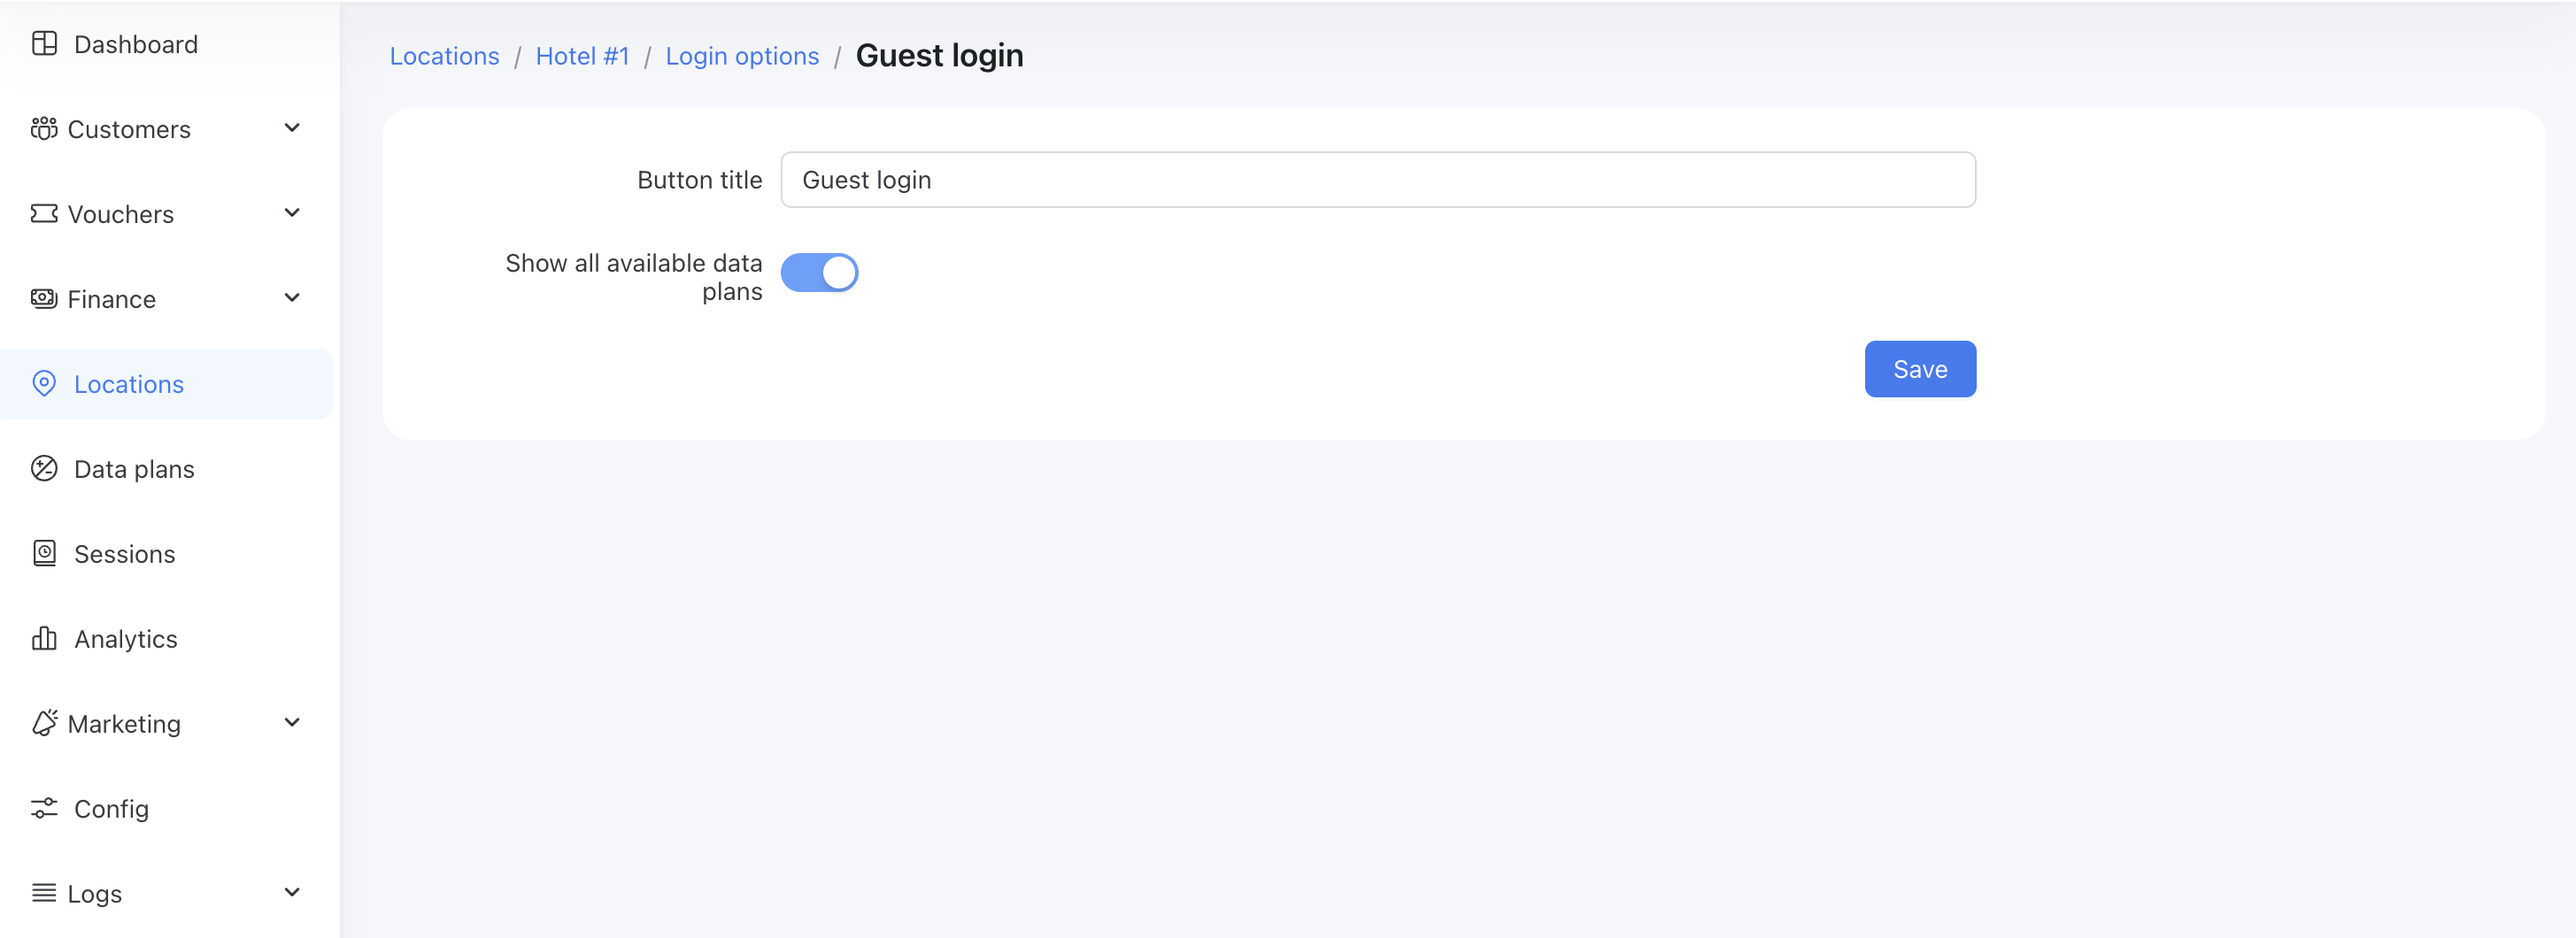
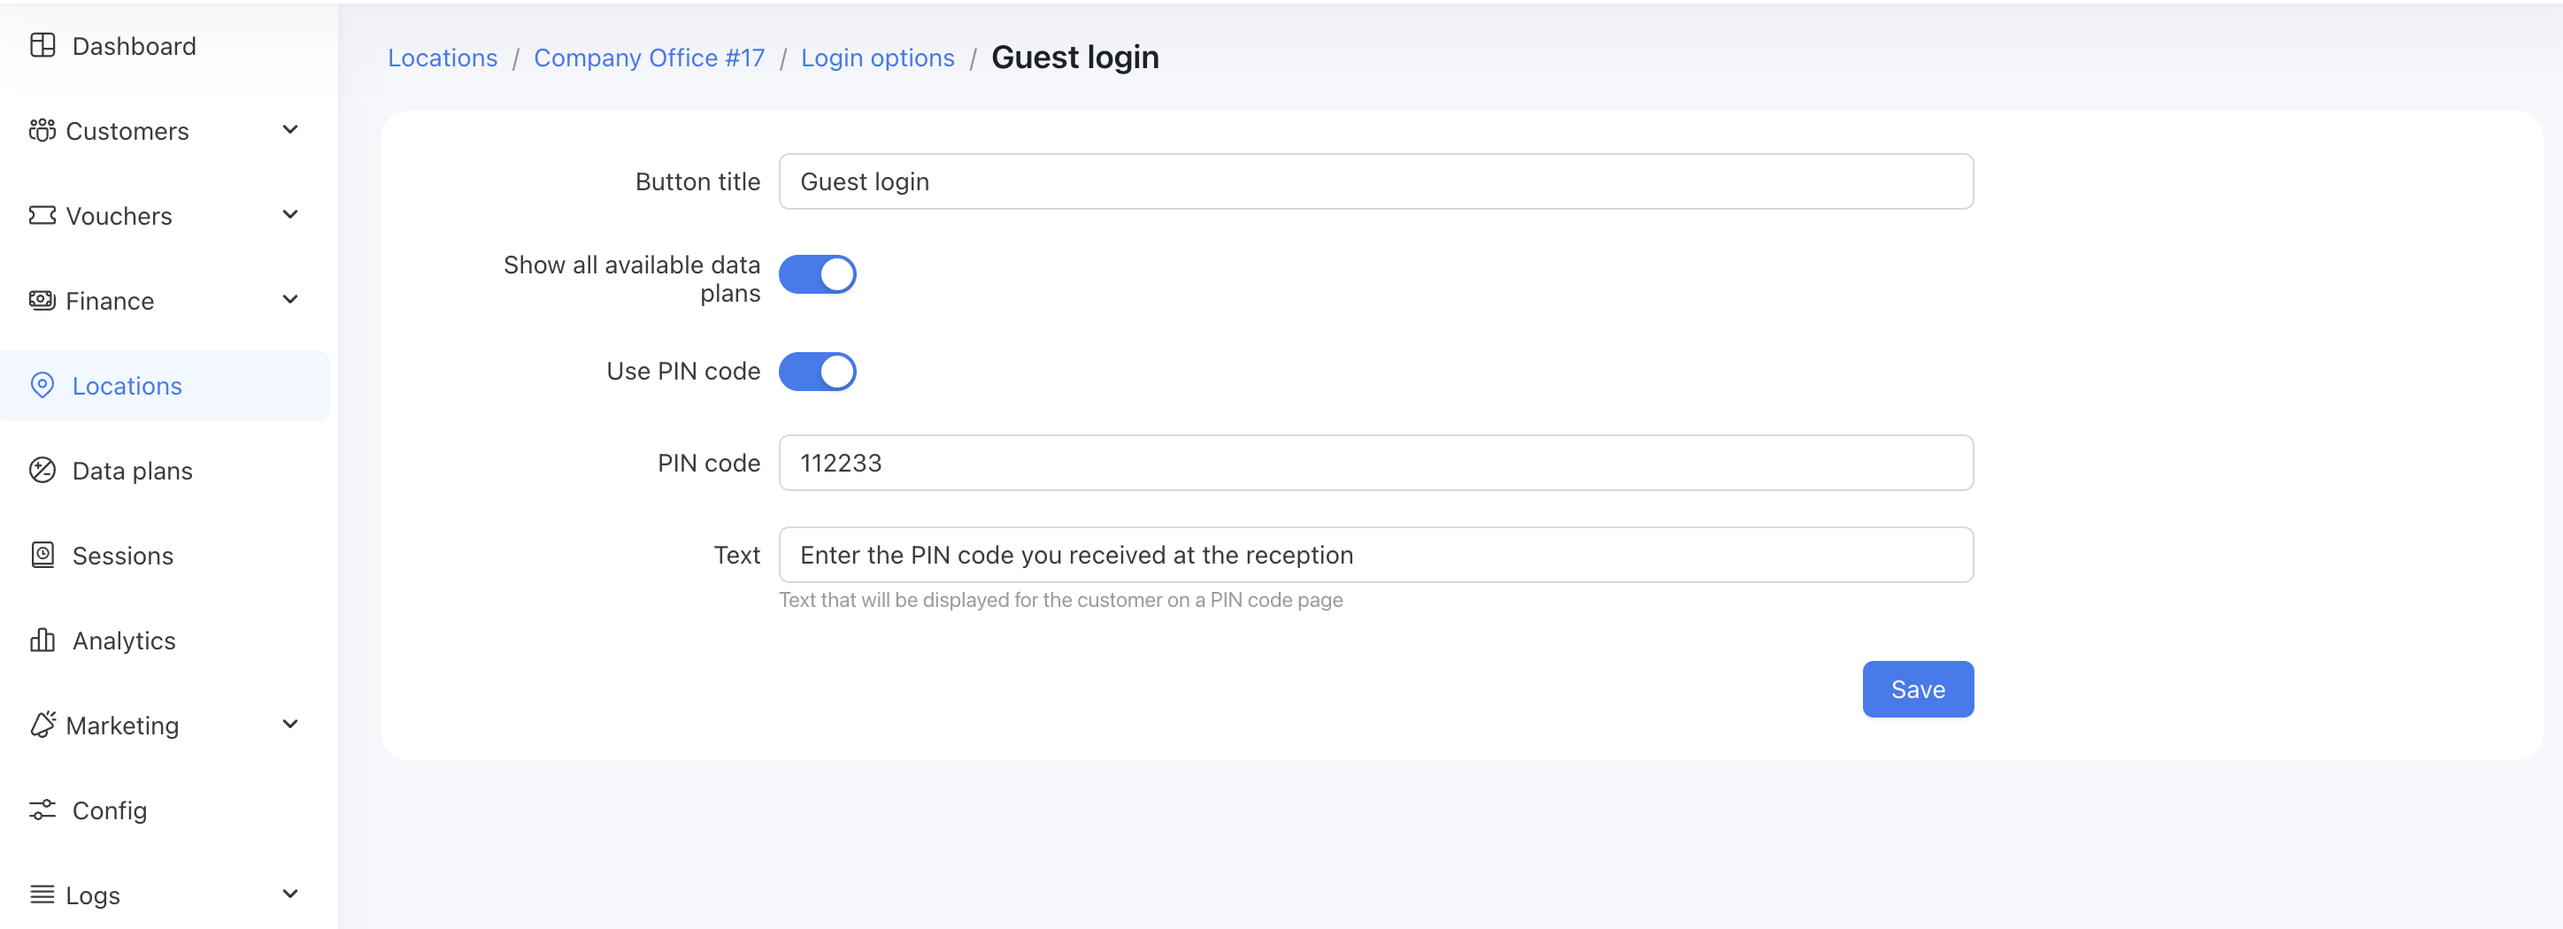
add PIN code for guest login doc

diff --git a/system/locations.md b/system/locations.md
@@ -72,8 +72,12 @@ A login option is simply the way your customers can sign in. On this tab, you ca
 
 Here you can configure the button title for guest login and manage data plan availability. If the “Show all available data plans” option is enabled, customers will be able to select from the available data plans for this location. If it is disabled, you must select a default data plan, and vouchers will be generated using the selected plan.
 
+You can also protect guest logins with a PIN code. In our case, we enabled PIN code protection, so the customer needs to know the PIN code before logging in. The text prompt is also configurable, ensuring that the customer isn’t confused about where to obtain the PIN code.
+
 This is what customers will see when connecting to Wi-Fi with guest login enabled:
 
 ![Splash page Guest login](images/splash_page_guest_login.png){data-zoomable}
 
-Customers can click the “Guest login” button to connect without entering their phone number.
+Customers can click the “Guest Login” button to connect without entering their phone number. The system will redirect them to the data plan selection page if PIN code protection is not enabled. If PIN code protection is enabled, they will have an additional step where they need to enter the PIN code.
+
+![Splash page Guest login with PIN](images/guest_login_with_pin_code.jpeg#mediumsize){data-zoomable}
